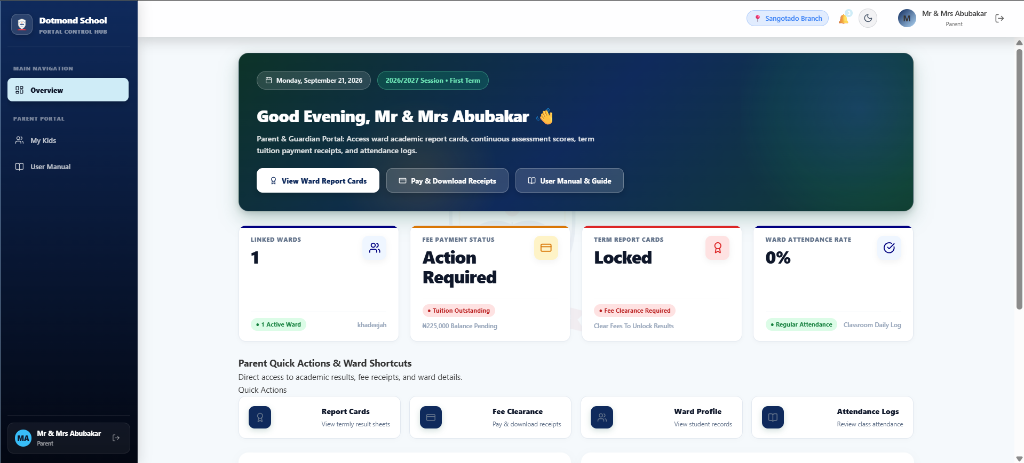
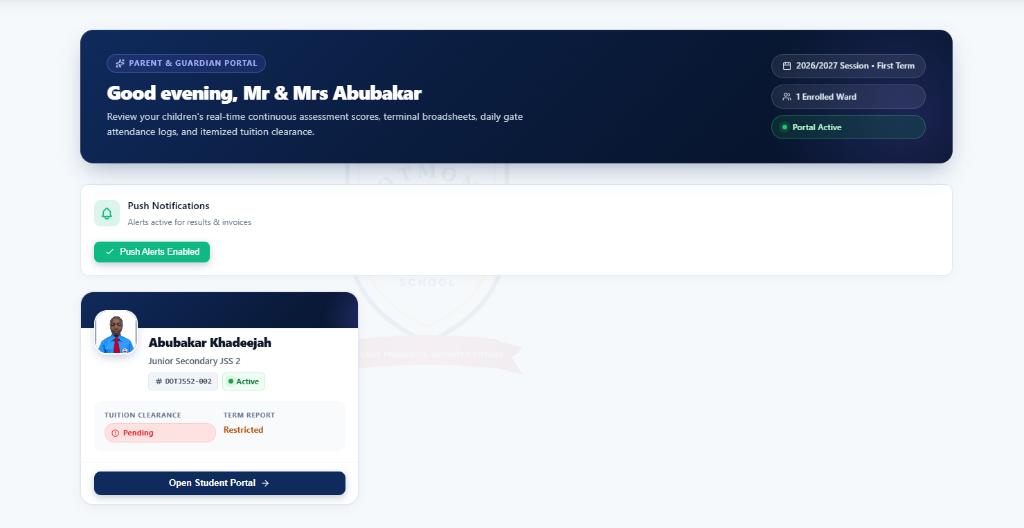
fix(parent-manual): use exact real student profile card image from My Kids page

diff --git a/src/pages/dashboard/parent/ParentUserManual.tsx b/src/pages/dashboard/parent/ParentUserManual.tsx
@@ -170,13 +170,13 @@ export default function ParentUserManual() {
             </div>
 
             <p className="manual-text-block">
-              When logging into the Parent Portal, your home dashboard displays an overview of your registered children, financial clearance status, term report card locks, and attendance summary.
+              When logging into the Parent Portal, you can navigate to the <strong>"My Kids"</strong> page from the left sidebar. This displays official student cards for all children registered under your parent profile.
             </p>
 
             <div className="manual-callout tip">
               <Lightbulb className="callout-icon" size={20} />
               <div>
-                <strong>Accessing Your Child's Cards:</strong> To access your child's profile card, fee invoices, report cards, or attendance records, locate the <strong>PARENT PORTAL</strong> section on the left sidebar navigation and click <strong>"My Kids"</strong>.
+                <strong>Accessing Your Child's Portal:</strong> Locate the <strong>PARENT PORTAL</strong> section on the left sidebar and click <strong>"My Kids"</strong>. Click <strong>"Open Student Portal →"</strong> on your child's card to access their detailed fee receipts, report cards, and attendance logs.
               </div>
             </div>
 
@@ -188,15 +188,15 @@ export default function ParentUserManual() {
                   <span className="browser-dot yellow"></span>
                   <span className="browser-dot green"></span>
                 </div>
-                <span className="screenshot-caption-title">{schoolName || 'Dotmond'} Parent Portal - Dashboard Overview & Sidebar Navigation</span>
+                <span className="screenshot-caption-title">{schoolName || 'Dotmond'} Parent Hub - Real Student Profile Cards View ("My Kids")</span>
               </div>
               <div
                 className="screenshot-image-wrapper"
-                onClick={() => openLightbox('/manual/parent_overview_kids.jpg', 'Parent Portal Dashboard & Sidebar Navigation')}
+                onClick={() => openLightbox('/manual/parent_overview_kids.jpg', 'Real Student Profile Card View (My Kids)')}
               >
                 <img
                   src="/manual/parent_overview_kids.jpg"
-                  alt="Parent Portal Dashboard Overview"
+                  alt="Real Student Profile Card View"
                   className="manual-screenshot-img"
                 />
                 <div className="screenshot-zoom-overlay">
@@ -209,27 +209,27 @@ export default function ParentUserManual() {
               <div className="manual-step-item">
                 <div className="step-num-badge">1</div>
                 <div>
-                  <div className="step-content-title">Click "My Kids" on Sidebar</div>
+                  <div className="step-content-title">Click "My Kids" on Left Sidebar</div>
                   <div className="step-content-desc">
-                    In the left navigation sidebar under <strong>PARENT PORTAL</strong>, click <strong>"My Kids"</strong> to open your ward management hub where you can view student profile cards, ID numbers, and assigned classes.
+                    In the left navigation sidebar under <strong>PARENT PORTAL</strong>, click <strong>"My Kids"</strong> to view your children's official school cards.
                   </div>
                 </div>
               </div>
               <div className="manual-step-item">
                 <div className="step-num-badge">2</div>
                 <div>
-                  <div className="step-content-title">Check Overview Summary & Status Cards</div>
+                  <div className="step-content-title">Inspect Student Details & Status Badges</div>
                   <div className="step-content-desc">
-                    Your Overview screen features live summary cards: <strong>Linked Wards</strong>, <strong>Fee Payment Status</strong>, <strong>Term Report Cards</strong>, and <strong>Ward Attendance Rate</strong>.
+                    Each card displays your child's student passport photo in school uniform, full name, class level (e.g. <em>Junior Secondary JSS 2</em>), unique ID number (e.g. <em># DOTJS52-002</em>), <strong>Tuition Clearance</strong> status (<em>Pending/Cleared</em>), and <strong>Term Report</strong> status (<em>Restricted/Unlocked</em>).
                   </div>
                 </div>
               </div>
               <div className="manual-step-item">
                 <div className="step-num-badge">3</div>
                 <div>
-                  <div className="step-content-title">Use Dashboard Quick Actions</div>
+                  <div className="step-content-title">Click "Open Student Portal →"</div>
                   <div className="step-content-desc">
-                    You can also click the quick banner buttons: <strong>"View Ward Report Cards"</strong>, <strong>"Pay & Download Receipts"</strong>, or <strong>"User Manual & Guide"</strong> to navigate directly to key portal tools.
+                    Click the <strong>"Open Student Portal →"</strong> button at the bottom of the card to enter the full student dashboard for fee payments, report cards, and attendance registers.
                   </div>
                 </div>
               </div>
